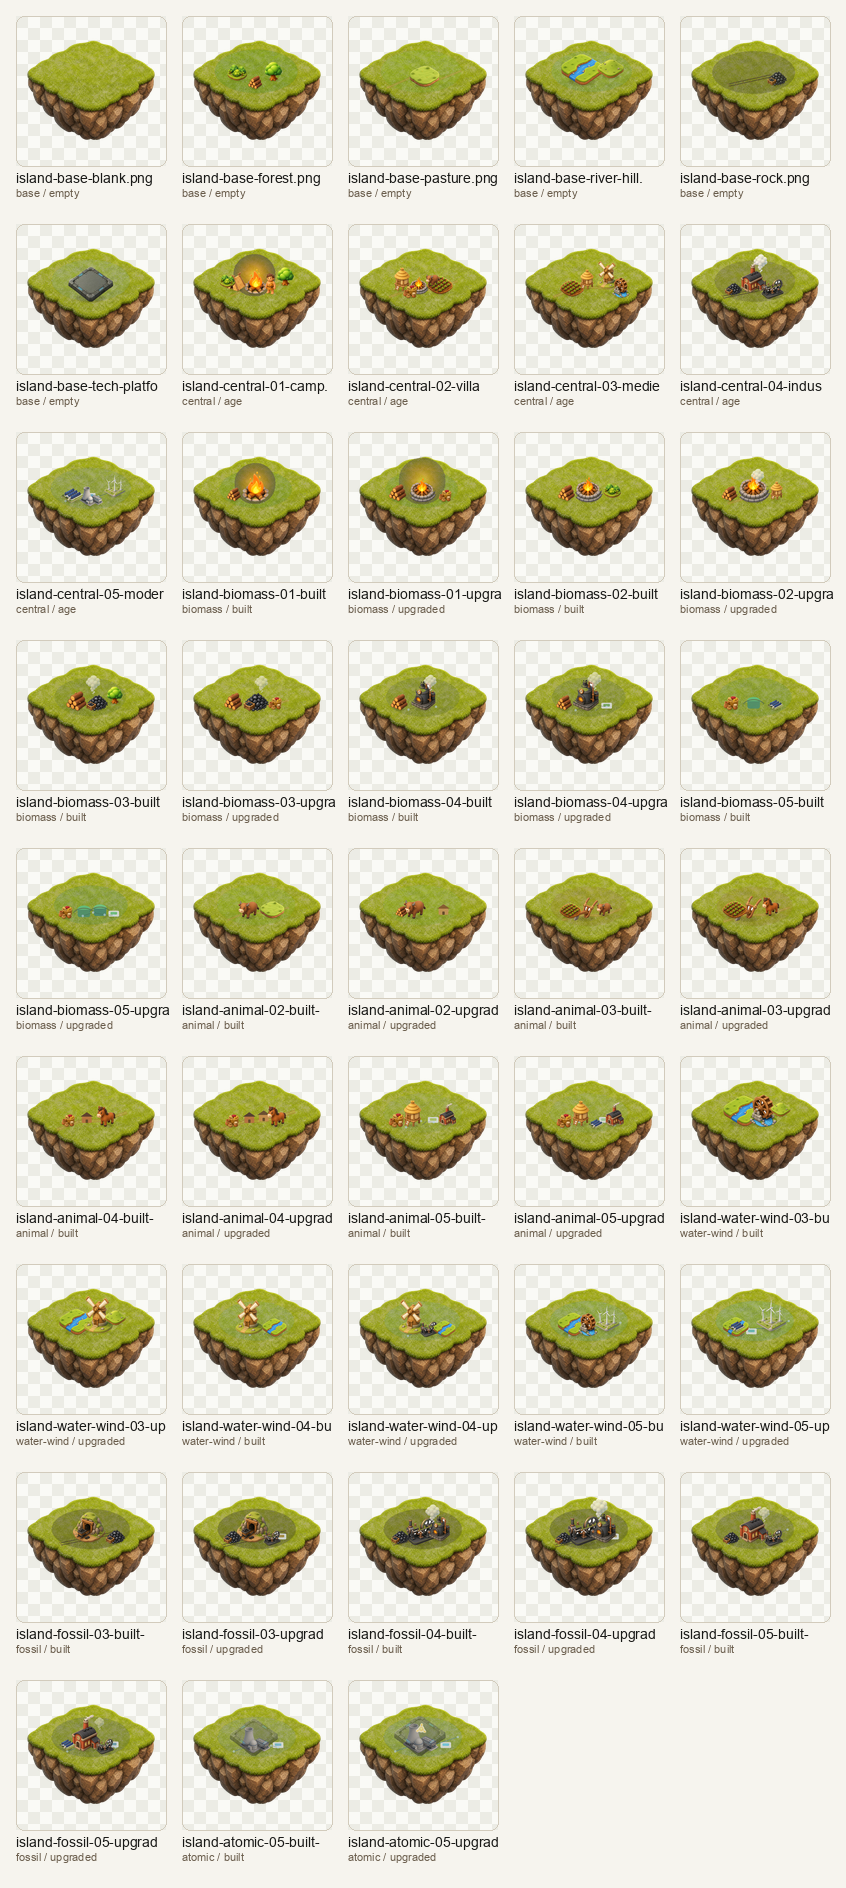
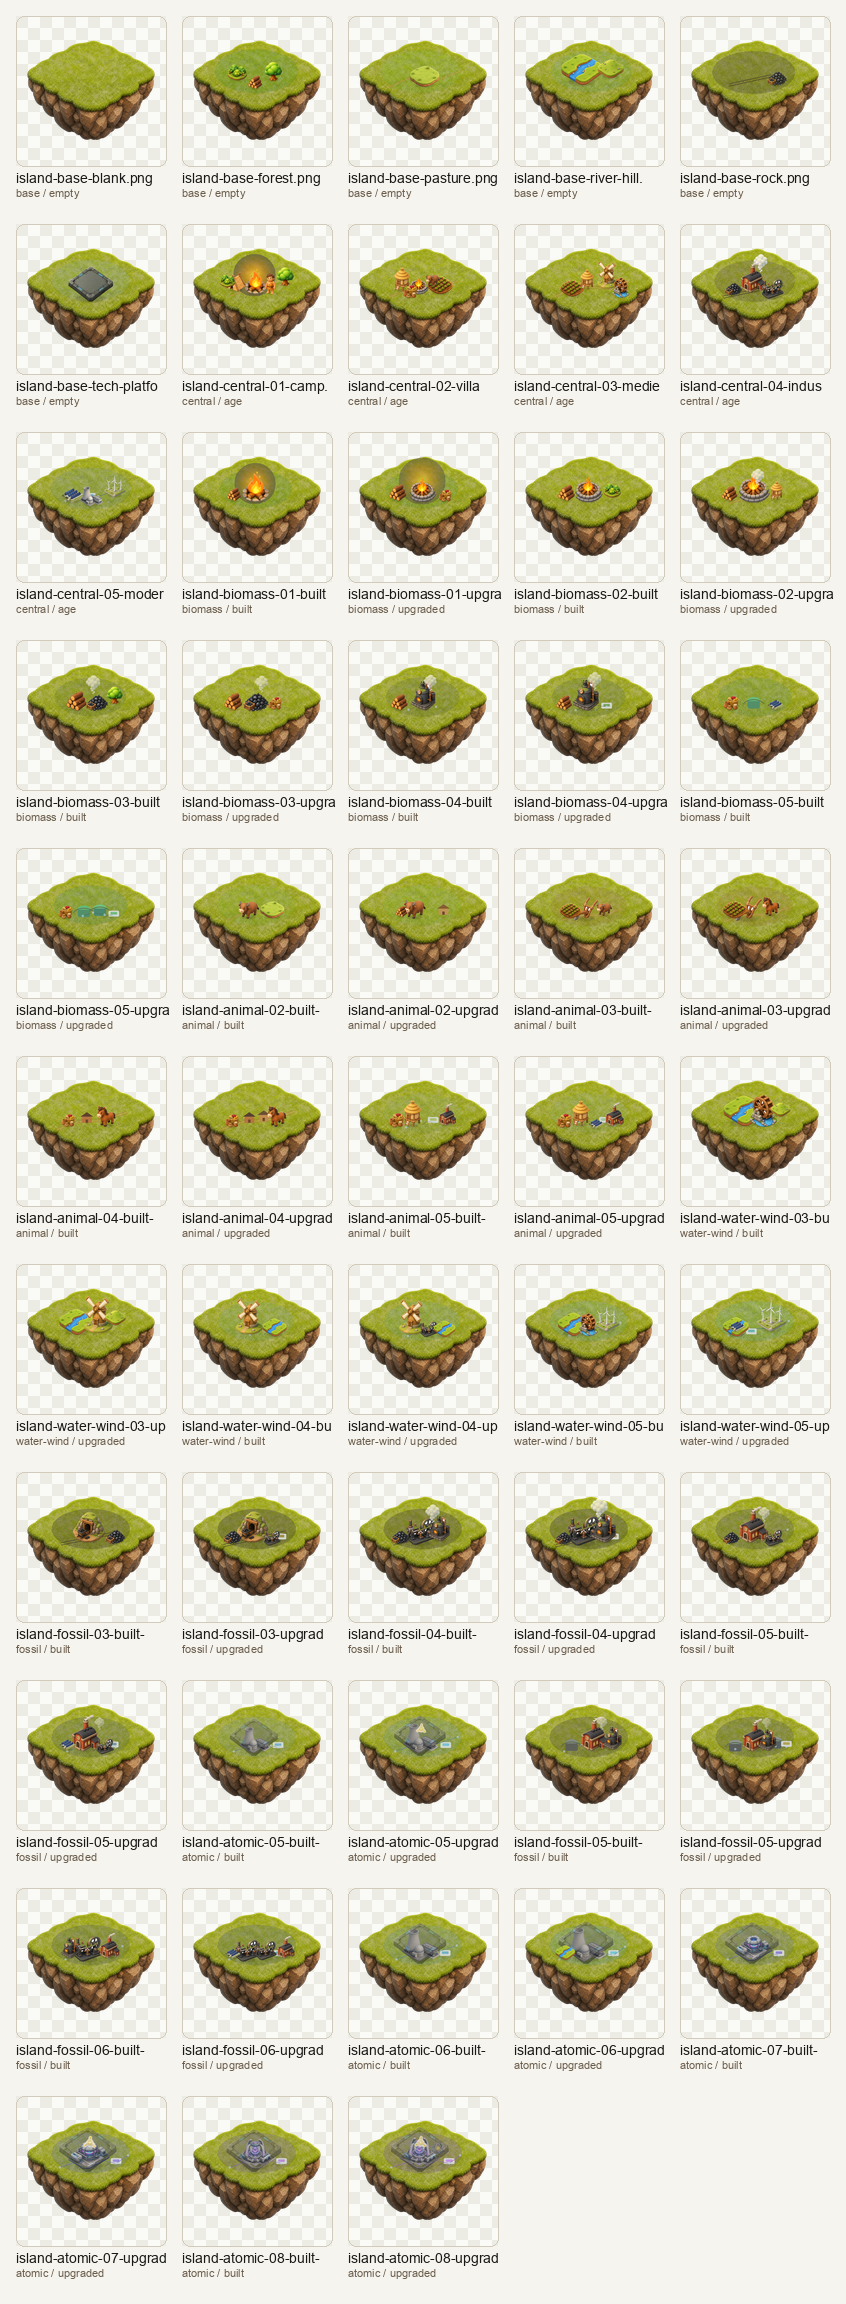
Fix HUD responsive statique

diff --git a/src/styles/index.css b/src/styles/index.css
@@ -833,7 +833,7 @@ button {
     --hud-edge: 12px;
     --hud-gap: 10px;
     --energy-header-height: 68px;
-    --tech-rail-height: clamp(86px, 15dvh, 122px);
+    --tech-rail-height: clamp(118px, 15dvh, 128px);
     --progress-rail-height: 50px;
     --mix-panel-width: clamp(218px, 25vw, 258px);
     --purchase-panel-width: clamp(286px, 35vw, 334px);
@@ -853,7 +853,26 @@ button {
   }
 
   .technology-card {
-    min-height: 54px;
+    grid-template-columns: 32px minmax(0, 1fr) auto;
+    min-height: 48px;
+  }
+
+  .technology-icon {
+    width: 32px;
+    height: 32px;
+  }
+
+  .technology-icon img {
+    width: 30px;
+    height: 30px;
+  }
+
+  .technology-label {
+    font-size: 0.78rem;
+  }
+
+  .technology-effect {
+    display: none;
   }
 
   .progress-rail {
@@ -868,6 +887,7 @@ button {
     --energy-header-height: 66px;
     --tech-rail-height: 118px;
     --progress-rail-height: 72px;
+    --mobile-side-panel-height: clamp(156px, 25dvh, 210px);
     --mix-panel-width: calc(40vw - 14px);
     --purchase-panel-width: calc(60vw - 14px);
     --bottom-zone-height: calc(
@@ -879,7 +899,7 @@ button {
     padding:
       calc(var(--hud-edge) + var(--energy-header-height) + var(--hud-gap))
       var(--hud-edge)
-      calc(var(--bottom-zone-height) + var(--hud-gap))
+      calc(var(--bottom-zone-height) + var(--mobile-side-panel-height) + var(--hud-gap) * 2)
       var(--hud-edge);
   }
 
@@ -892,7 +912,10 @@ button {
 
   .mix-panel,
   .purchase-panel {
-    max-height: calc(100dvh - var(--side-panel-top) - var(--bottom-zone-height));
+    top: auto;
+    bottom: calc(var(--bottom-zone-height) + var(--hud-gap));
+    height: var(--mobile-side-panel-height);
+    max-height: var(--mobile-side-panel-height);
   }
 
   .mix-panel {

diff --git a/public/assets/game/islands-gpt-image-2/README.md b/public/assets/game/islands-gpt-image-2/README.md
@@ -1,0 +1,13 @@
+# GPT Image 2 Floating Islands
+
+Final integrated island images generated from `public/assets/game/floating-grass-block-natural.png` as the visual base.
+
+These are not sprite composites. Each PNG should read as one cohesive modified floating island:
+
+- same floating grass block silhouette and camera angle as the base;
+- integrated buildings and terrain details;
+- transparent background;
+- no text, UI, logo, or watermark;
+- one clear energy building/state per image.
+
+The older `public/assets/game/islands/` folder is a draft/reference composite pack, not the final art pass.

diff --git a/public/assets/game/islands/README.md b/public/assets/game/islands/README.md
@@ -69,8 +69,18 @@ Use `island-manifest.json` as the integration source of truth.
 - `fossil/island-fossil-04-upgraded-high-pressure-steam.png` - Vapeur haute pression: Remplace built apres Vapeur haute pression.
 - `fossil/island-fossil-05-built-thermal-turbine.png` - Turbine thermique: Afficher apres achat de Turbine thermique.
 - `fossil/island-fossil-05-upgraded-thermal-cycle.png` - Cycle thermique: Remplace built apres Cycle thermique.
+- `fossil/island-fossil-05-built-oil-refinery.png` - Raffinerie de petrole: Variante future optionnelle pour Raffinerie de petrole.
+- `fossil/island-fossil-05-upgraded-oil-cracking.png` - Craquage petrolier: Variante future optionnelle apres Craquage petrolier.
+- `fossil/island-fossil-06-built-gas-turbine.png` - Turbine a gaz: Variante future optionnelle pour Turbine a gaz.
+- `fossil/island-fossil-06-upgraded-combined-cycle.png` - Cycle combine: Variante future optionnelle apres Cycle combine.
 
 ## atomic
 
 - `atomic/island-atomic-05-built-reactor-core.png` - Coeur de reacteur: Afficher apres achat de Coeur de reacteur.
 - `atomic/island-atomic-05-upgraded-controlled-fission.png` - Fission controlee: Remplace built apres Fission controlee.
+- `atomic/island-atomic-06-built-modern-fission.png` - Reacteur moderne: Variante future optionnelle pour Reacteur moderne.
+- `atomic/island-atomic-06-upgraded-passive-safety.png` - Surete passive: Variante future optionnelle apres Surete passive.
+- `atomic/island-atomic-07-built-fusion-plant.png` - Tokamak: Variante future optionnelle pour Tokamak.
+- `atomic/island-atomic-07-upgraded-controlled-fusion.png` - Fusion controlee: Variante future optionnelle apres Fusion controlee.
+- `atomic/island-atomic-08-built-antimatter.png` - Centrale antimatiere: Variante future optionnelle pour Centrale antimatiere.
+- `atomic/island-atomic-08-upgraded-antimatter-containment.png` - Confinement antimatiere: Variante future optionnelle apres Confinement antimatiere.

diff --git a/docs/trame-jeu-prometheus-protocol.md b/docs/trame-jeu-prometheus-protocol.md
@@ -226,3 +226,4 @@ Le passage d'age debloque un nouveau shop historique et une nouvelle source d'en
 - Conservation des zones autour du centre : mix a gauche, shop a droite, technologies et progression en bas.
 - Les panneaux adaptent leur largeur et leur hauteur a la fenetre.
 - Quand il y a trop d'elements, seul le contenu du panneau scrolle, pas toute la page.
+- Sur petite largeur, le mix et le shop deviennent des docks courts au-dessus des technologies pour laisser le centre respirer.